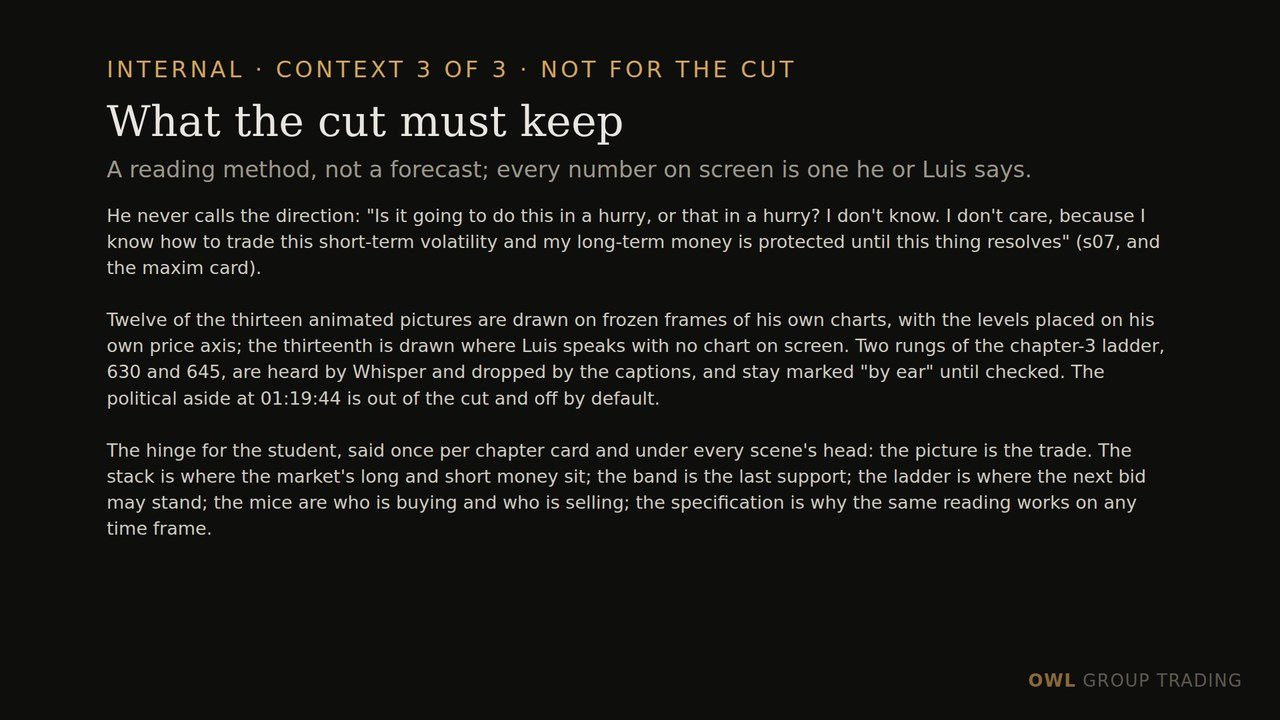
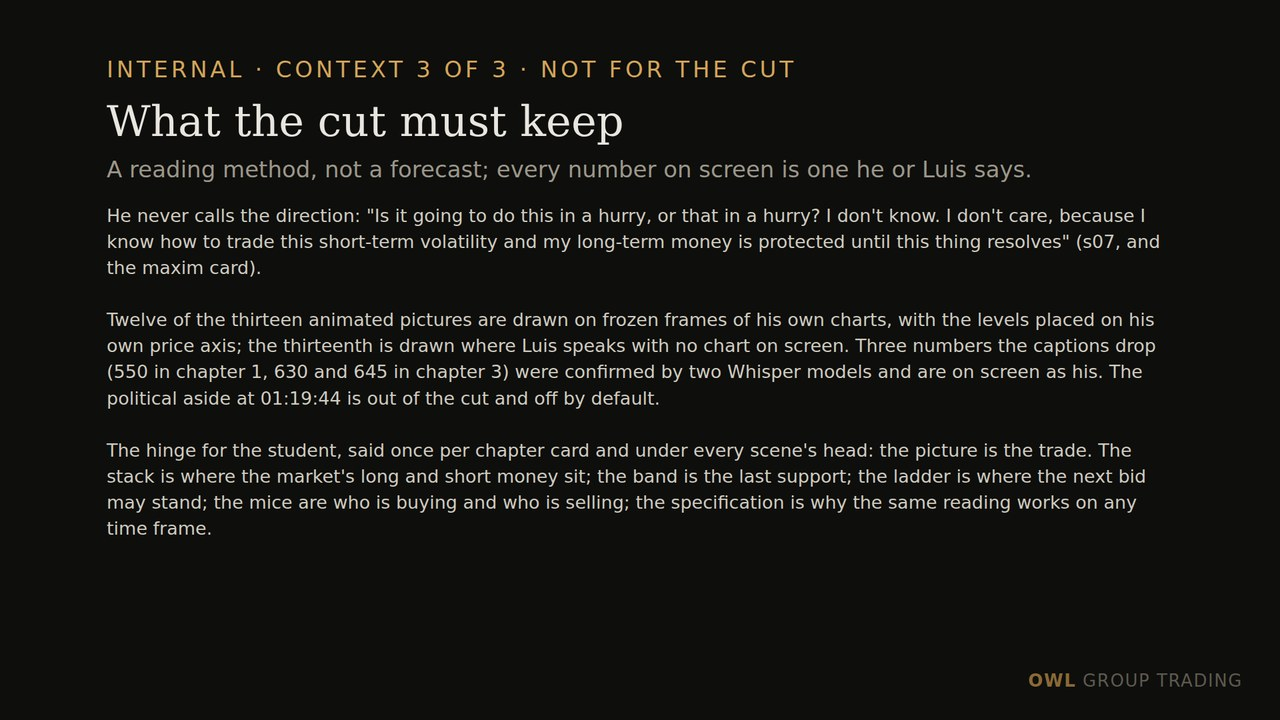
cutroom: critical-states-v2 rev 5

Changed region(s): [[0.0938, 0.4583, 0.9062, 0.55]]

diff --git a/tools/cutroom/critical-states-v2/anim-s11a.html b/tools/cutroom/critical-states-v2/anim-s11a.html
@@ -89,7 +89,7 @@ function recall(t,t0,x,y,w,h,label,inner,o={}){const a=op(t,t0,.5)*(o.until&&t>o
   return rect(x,y,w,h,{r:8,s:MUT,sw:1.5,f:'rgba(255,255,255,.03)',o:a,dash:'4 4'})+txt(x+12,y+20,label,{sz:14,c:MUT,o:a})+`<g opacity="${a}" transform="translate(${x} ${y+28}) scale(${o.sc||.5})">${inner}</g>`;}
 function list(t,t0,step,items,x,y,o={}){let out='';items.forEach((s,i)=>{const o1=op(t,t0+i*step,0.4);if(o1>0)out+=txt(x,y+i*(o.lh||34),s,{sz:o.sz||22,c:o.c||FG,o:o1,w:o.w||400});});return out;}
 
-const BEATS = [[1.4, "Chart three: the <em>magnitude</em> of that move when it broke this support", "the 3d (fast) panel of his health check"], [10.8, "Here's the next piece of resistance. We're already there", ""], [18.7, "What was once <em>resistance</em> then became <em>support</em>. We're going to see if that is support", ""], [27.9, "More likely this was the <em>peak of the SMA30</em> before it took off on this run, and it's now starting to roll over", ""], [44.1, "The <em>bottom of the dragon</em>, which often acts as a support level", ""], [51.2, "The <em>bottom of the RL10</em>, which acts as a support level", ""], [57.2, "And the absolute limit of price on that <em>fat tail</em>", ""], [80.2, "<em>660</em>, and this is <em>690</em>", "two more rungs, 630 and 645, are in the Whisper transcript: by ear"], [89.8, "That's what the downside looks like. The recovery will happen fast", ""], [103.5, "Then it has to start <em>fighting its way back up the stack</em>", ""], [115.0, "the SMA30, the tip of the dragon, the PSAR flip, the RL10", ""], [127.1, "It would have to start really proving itself here", ""], [136.7, "It has to get above this in 2027 and beyond", ""], [149.0, "If it breaks through that, you add your <em>final tranche</em> of long-term money", "the ladder down is the stack; the way back up is the same stack"]];
+const BEATS = [[1.4, "Chart three: the <em>magnitude</em> of that move when it broke this support", "the 3d (fast) panel of his health check"], [10.8, "Here's the next piece of resistance. We're already there", ""], [18.7, "What was once <em>resistance</em> then became <em>support</em>. We're going to see if that is support", ""], [27.9, "More likely this was the <em>peak of the SMA30</em> before it took off on this run, and it's now starting to roll over", ""], [44.1, "The <em>bottom of the dragon</em>, which often acts as a support level", ""], [51.2, "The <em>bottom of the RL10</em>, which acts as a support level", ""], [57.2, "And the absolute limit of price on that <em>fat tail</em>", ""], [66.0, "If that one breaks, which is at <em>630</em>, <em>645</em>, <em>660</em>, and this is <em>690</em>", ""], [89.8, "That's what the downside looks like. The recovery will happen fast", ""], [103.5, "Then it has to start <em>fighting its way back up the stack</em>", ""], [115.0, "the SMA30, the tip of the dragon, the PSAR flip, the RL10", ""], [127.1, "It would have to start really proving itself here", ""], [136.7, "It has to get above this in 2027 and beyond", ""], [149.0, "If it breaks through that, you add your <em>final tranche</em> of long-term money", "the ladder down is the stack; the way back up is the same stack"]];
 // WARP (optional): [[t_voice, t_authored], …] knots from the voice-over's words; the scene was authored on an estimate
 const WARP = null;
 const warpT = t => { if (!WARP) return t; for (let i = 1; i < WARP.length; i++) if (t <= WARP[i][0]) {
@@ -175,7 +175,7 @@ function draw(t){
   s += rc(t,5,279,'the bottom of the RL10',{c:RL10,sz:19,w:600}) + txt(RX+330,279,'660',{sz:19,c:RL10,o:after(t,7)?op(t,T(7),.5):0,w:600,a:'end'});
   if (after(t,6)){ const o=op(t,T(6),.5); s += ring(...at(TAIL),14,RISK,o); }
   s += rc(t,6,307,'the fat tail',{c:RISK,sz:19,w:600});
-  if (after(t,7)){ const o=op(t,T(7),.5); s += lv(660,'660',RL10,o); s += txt(RX,336,'645 · 630 by ear, not in the captions',{sz:15,c:MUT,o}); }
+  if (after(t,7)){ const o=op(t,T(7),.5); s += lv(660,'660',RL10,o); s += txt(RX+330,307,'645 \u00b7 630',{sz:19,c:RISK,o,w:600,a:'end'}); }
   if (after(t,8)){ const o=op(t,T(8),.5); const u=pr(t,T(8),1.5); s += glow(arrow(PX(1085),PYX(460),PX(1085),PYX(lerp(460,140,u)),{s:SAFE,sw:4,o})); }
   s += defn(t,T(9),RX,362,330,'The recovery path',['up the stack: RL, PSAR, SMA30','dragon tip, PSAR flip, RL10','over the top: the last tranche'],{lh:26,pad:14});
   if (after(t,10)){ const o=op(t,T(10),.5); s += ring(...at(TOP),16,SAFE,o); }

diff --git a/tools/cutroom/critical-states-v2/anim-s05a.html b/tools/cutroom/critical-states-v2/anim-s05a.html
@@ -89,7 +89,7 @@ function recall(t,t0,x,y,w,h,label,inner,o={}){const a=op(t,t0,.5)*(o.until&&t>o
   return rect(x,y,w,h,{r:8,s:MUT,sw:1.5,f:'rgba(255,255,255,.03)',o:a,dash:'4 4'})+txt(x+12,y+20,label,{sz:14,c:MUT,o:a})+`<g opacity="${a}" transform="translate(${x} ${y+28}) scale(${o.sc||.5})">${inner}</g>`;}
 function list(t,t0,step,items,x,y,o={}){let out='';items.forEach((s,i)=>{const o1=op(t,t0+i*step,0.4);if(o1>0)out+=txt(x,y+i*(o.lh||34),s,{sz:o.sz||22,c:o.c||FG,o:o1,w:o.w||400});});return out;}
 
-const BEATS = [[2.8, "Last support level: we are <em>right at the boundary</em> of that", ""], [12.7, "If that doesn't work, the next price down is <em>660</em>", ""], [35.4, "And if that doesn't hit, the <em>last turning point</em> was further down", "the number he gives is in the Whisper transcript only: by ear"], [44.6, "Nothing but the will of the large market participants to come in and <em>catch this falling knife</em>", ""], [59.9, "Who has that kind of money? <em>Nations</em> and the <em>global banking collective</em>", ""], [79.5, "For the next short period of time, expect volatility to be <em>massive</em>", ""], [89.5, "Following this metamodel, swing trading and short-term position sizing is at <em>0%</em>", ""], [97.0, "The long-term model, the BMR: <em>0% exposure</em>. None of the best candidates are above their four-month moving average", ""], [111.8, "The money is available in <em>day trading</em>, and maybe one- to three-day swings", ""], [131.1, "An exposure that reflects exactly where we are, just by <em>following the metamodel</em>", "the metamodel sets the exposure; the chart sets the weather"]];
+const BEATS = [[2.8, "Last support level: we are <em>right at the boundary</em> of that", ""], [12.7, "If that doesn't work, the next price down is 670. Excuse me, no: <em>660</em>", ""], [35.4, "And if that doesn't hit, the <em>last turning point</em> was around, if I remember, about <em>550</em>", ""], [44.6, "Nothing but the will of the large market participants to come in and <em>catch this falling knife</em>", ""], [59.9, "Who has that kind of money? <em>Nations</em> and the <em>global banking collective</em>", ""], [79.5, "For the next short period of time, expect volatility to be <em>massive</em>", ""], [89.5, "Following this metamodel, swing trading and short-term position sizing is at <em>0%</em>", ""], [97.0, "The long-term model, the BMR: <em>0% exposure</em>. None of the best candidates are above their four-month moving average", ""], [111.8, "The money is available in <em>day trading</em>, and maybe one- to three-day swings", ""], [131.1, "An exposure that reflects exactly where we are, just by <em>following the metamodel</em>", "the metamodel sets the exposure; the chart sets the weather"]];
 // WARP (optional): [[t_voice, t_authored], …] knots from the voice-over's words; the scene was authored on an estimate
 const WARP = null;
 const warpT = t => { if (!WARP) return t; for (let i = 1; i < WARP.length; i++) if (t <= WARP[i][0]) {
@@ -167,7 +167,7 @@ function draw(t){
   s += head(t,0.2,'Who catches a falling knife?') + bridge(t,0.2,'swing 0 %, long-term 0 %; the day trade is the open door');
   if (after(t,0)){ const o=op(t,T(0),.5); s += ring(...at(PB),20,KEY,o) + line(PX(560),PYX(58),PX(745),PYX(58),{s:KEY,sw:2,dash:'7 5',o}) + tag(PX(555),PYX(58),'last support: the band',KEY,o,'end'); }
   s += rc(t,0,170,'the ladder down',{c:MUT,sz:17});
-  s += rc(t,0,200,'1  the 270’s band, now',{c:KEY,sz:19,w:600}) + rc(t,1,228,'2  660',{c:FG,sz:19,w:600}) + rc(t,2,256,'3  the last turning point',{c:MUT,sz:19});
+  s += rc(t,0,200,'1  the 270’s band, now',{c:KEY,sz:19,w:600}) + rc(t,1,228,'2  660',{c:FG,sz:19,w:600}) + rc(t,2,256,'3  the last turning point, about 550',{c:FG,sz:19,w:600});
   if (after(t,1)){ const o=op(t,T(1),.5); s += line(PX(560),PYX(395),PX(745),PYX(395),{s:FG,sw:2,dash:'7 5',o}) + tag(PX(555),PYX(395),'660',FG,o,'end'); }
   if (after(t,3)){ const o=op(t,T(3),.5); const u=.5+.5*Math.sin(t*3); s += glow(path(`M${PX(735)} ${PYX(250)} L${PX(735)} ${PYX(345+8*u)}`,{s:RISK,sw:5,o})) + tag(PX(725),PYX(300),'a falling knife',RISK,o,'end'); }
   if (after(t,4)){ const o=op(t,T(4),.5); s += aside(t,T(4),RX,312,'nations and the global banking collective',{sz:22}); }

diff --git a/tools/cutroom/critical-states-v2/anim-s16a.html b/tools/cutroom/critical-states-v2/anim-s16a.html
@@ -89,7 +89,7 @@ function recall(t,t0,x,y,w,h,label,inner,o={}){const a=op(t,t0,.5)*(o.until&&t>o
   return rect(x,y,w,h,{r:8,s:MUT,sw:1.5,f:'rgba(255,255,255,.03)',o:a,dash:'4 4'})+txt(x+12,y+20,label,{sz:14,c:MUT,o:a})+`<g opacity="${a}" transform="translate(${x} ${y+28}) scale(${o.sc||.5})">${inner}</g>`;}
 function list(t,t0,step,items,x,y,o={}){let out='';items.forEach((s,i)=>{const o1=op(t,t0+i*step,0.4);if(o1>0)out+=txt(x,y+i*(o.lh||34),s,{sz:o.sz||22,c:o.c||FG,o:o1,w:o.w||400});});return out;}
 
-const BEATS = [[0.3, "On the nine-bar, the two dips: was the recovering force AI spending?", "A student's question (the cue has no word stamps: a fixed offset)."], [36.7, "Each one of these: the <em>volume of buying</em> here required all of the institutional money", ""], [45.2, "to get on board, to save it, to add to it, and to finally get their positions in. Then the retail traders come in", ""], [65.1, "If you map this out: this is where the <em>fifth mouse</em> is buying it", ""], [71.9, "Here's where the <em>third mouse</em> came in, just above this", ""], [79.0, "This was the <em>first mouse</em> buying it", ""], [81.5, "That was the second mouse. This was the third. This was the fourth", ""], [89.5, "This is where the first and second mice are taking profits", ""], [97.7, "This is where the fifth mouse is buying, and <em>getting punished</em>. The third mouse is still in", ""], [103.3, "And this is where the first and the second mouse come back in", ""], [123.1, "So what we have here: the <em>first mouse is actively shorting this</em>", ""], [133.5, "The short sellers are still pounding this with leverage. The second mouse has <em>stepped aside</em>", ""], [140.2, "The third mouse is trying to figure out: do I start <em>selling core positions</em>?", ""], [153.9, "If the third mouse is selling and the first mouse is shorting, that's what gets this down to here", "our placing of his mice along his arrow; the order is his"]];
+const BEATS = [[0.3, "On the nine-bar, the two dips: was the recovering force AI spending?", "A student's question."], [36.7, "Each one of these: the <em>volume of buying</em> here required all of the institutional money", ""], [45.2, "to get on board, to save it, to add to it, and to finally get their positions in. Then the retail traders come in", ""], [65.1, "If you map this out: this is where the <em>fifth mouse</em> is buying it", ""], [71.9, "Here's where the <em>third mouse</em> came in, just above this", ""], [79.0, "This was the <em>first mouse</em> buying it", ""], [81.5, "That was the second mouse. This was the third. This was the fourth", ""], [89.5, "This is where the first and second mice are taking profits", ""], [97.7, "This is where the fifth mouse is buying, and <em>getting punished</em>. The third mouse is still in", ""], [103.3, "And this is where the first and the second mouse come back in", ""], [123.1, "So what we have here: the <em>first mouse is actively shorting this</em>", ""], [133.5, "The short sellers are still pounding this with leverage. The second mouse has <em>stepped aside</em>", ""], [140.2, "The third mouse is trying to figure out: do I start <em>selling core positions</em>?", ""], [153.9, "If the third mouse is selling and the first mouse is shorting, that's what gets this down to here", "the five mice, in the order he names them"]];
 // WARP (optional): [[t_voice, t_authored], …] knots from the voice-over's words; the scene was authored on an estimate
 const WARP = null;
 const warpT = t => { if (!WARP) return t; for (let i = 1; i < WARP.length; i++) if (t <= WARP[i][0]) {

diff --git a/tools/cutroom/critical-states-v2/anim-s13a.html b/tools/cutroom/critical-states-v2/anim-s13a.html
@@ -89,7 +89,7 @@ function recall(t,t0,x,y,w,h,label,inner,o={}){const a=op(t,t0,.5)*(o.until&&t>o
   return rect(x,y,w,h,{r:8,s:MUT,sw:1.5,f:'rgba(255,255,255,.03)',o:a,dash:'4 4'})+txt(x+12,y+20,label,{sz:14,c:MUT,o:a})+`<g opacity="${a}" transform="translate(${x} ${y+28}) scale(${o.sc||.5})">${inner}</g>`;}
 function list(t,t0,step,items,x,y,o={}){let out='';items.forEach((s,i)=>{const o1=op(t,t0+i*step,0.4);if(o1>0)out+=txt(x,y+i*(o.lh||34),s,{sz:o.sz||22,c:o.c||FG,o:o1,w:o.w||400});});return out;}
 
-const BEATS = [[3.1, "Now notice the <em>nine-day</em>; this goes back four years", "SPY, nine-day bars, his weekend report"], [10.5, "This was the last Trump meltdown. This was the war in Iran. This was the recovery from that", ""], [21.1, "Each of these sell-offs had a <em>super huge spike down</em>", ""], [40.5, "Prior to that sell-off: a <em>peak RL10 and 30</em>, then a lower high, then a collapse", ""], [49.1, "Then the collapse. Oh, the sky is falling", ""], [57.8, "Then some price level that demonstrated a recovery, which turned out to be like a <em>kata 2 entry</em>", ""], [64.9, "Here was your <em>emerging dragon</em>", ""], [69.9, "Then this <em>sideways warning</em>", ""], [80.8, "A low and a higher low: a <em>one-two entry</em>. Then the 30 recovered", ""], [94.1, "We're in the <em>middle of this spike down</em>. We have not seen any support level here", ""], [116.1, "<em>Zero evidence</em> that this is support", ""], [121.7, "You could infer, I do, that that could be support, and this, and that", "inferred, not shown: the levels below are his guesses, named as guesses"]];
+const BEATS = [[3.1, "Now notice the <em>nine-day</em>; this goes back four years", "SPY, nine-day bars, his weekend report"], [10.5, "This was the last Trump meltdown. This was the war in Iran. This was the recovery from that", ""], [21.1, "Each of these sell-offs had a <em>super huge spike down</em>", ""], [40.5, "Prior to that sell-off: a <em>peak RL10 and 30</em>, then a lower high, then a collapse", ""], [49.1, "Then the collapse. Oh, the sky is falling", ""], [57.8, "Then some price level that demonstrated a recovery, which turned out to be like a <em>kata 2 entry</em>", ""], [64.9, "Here was your <em>emerging dragon</em>", ""], [69.9, "Then this <em>sideways warning</em>", ""], [80.8, "A low and a higher low: a <em>one-two entry</em>. Then the 30 recovered", ""], [94.1, "We're in the <em>middle of this spike down</em>. We have not seen any support level here", ""], [116.1, "<em>Zero evidence</em> that this is support", ""], [121.7, "You could infer, I do, that that could be support, and this, and that", "inferred, he says: no price action has shown it yet"]];
 // WARP (optional): [[t_voice, t_authored], …] knots from the voice-over's words; the scene was authored on an estimate
 const WARP = null;
 const warpT = t => { if (!WARP) return t; for (let i = 1; i < WARP.length; i++) if (t <= WARP[i][0]) {
